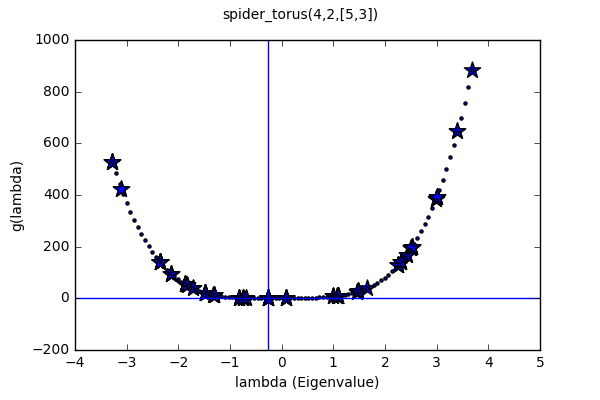
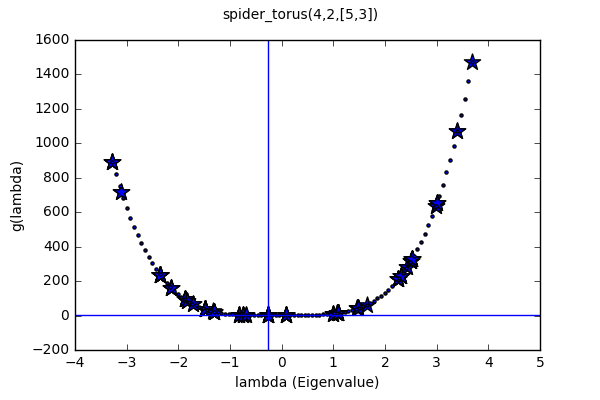
Updating docs.

diff --git a/code/scripts/deceptive_functions.py b/code/scripts/deceptive_functions.py
@@ -26,7 +26,7 @@ import numpy as np
 
 # Intermediate points
 NUM_POINTS = 100
-MAX_POWER = 6
+MAX_POWER = 7
 
 
 def deceptive(y, coefficients):
